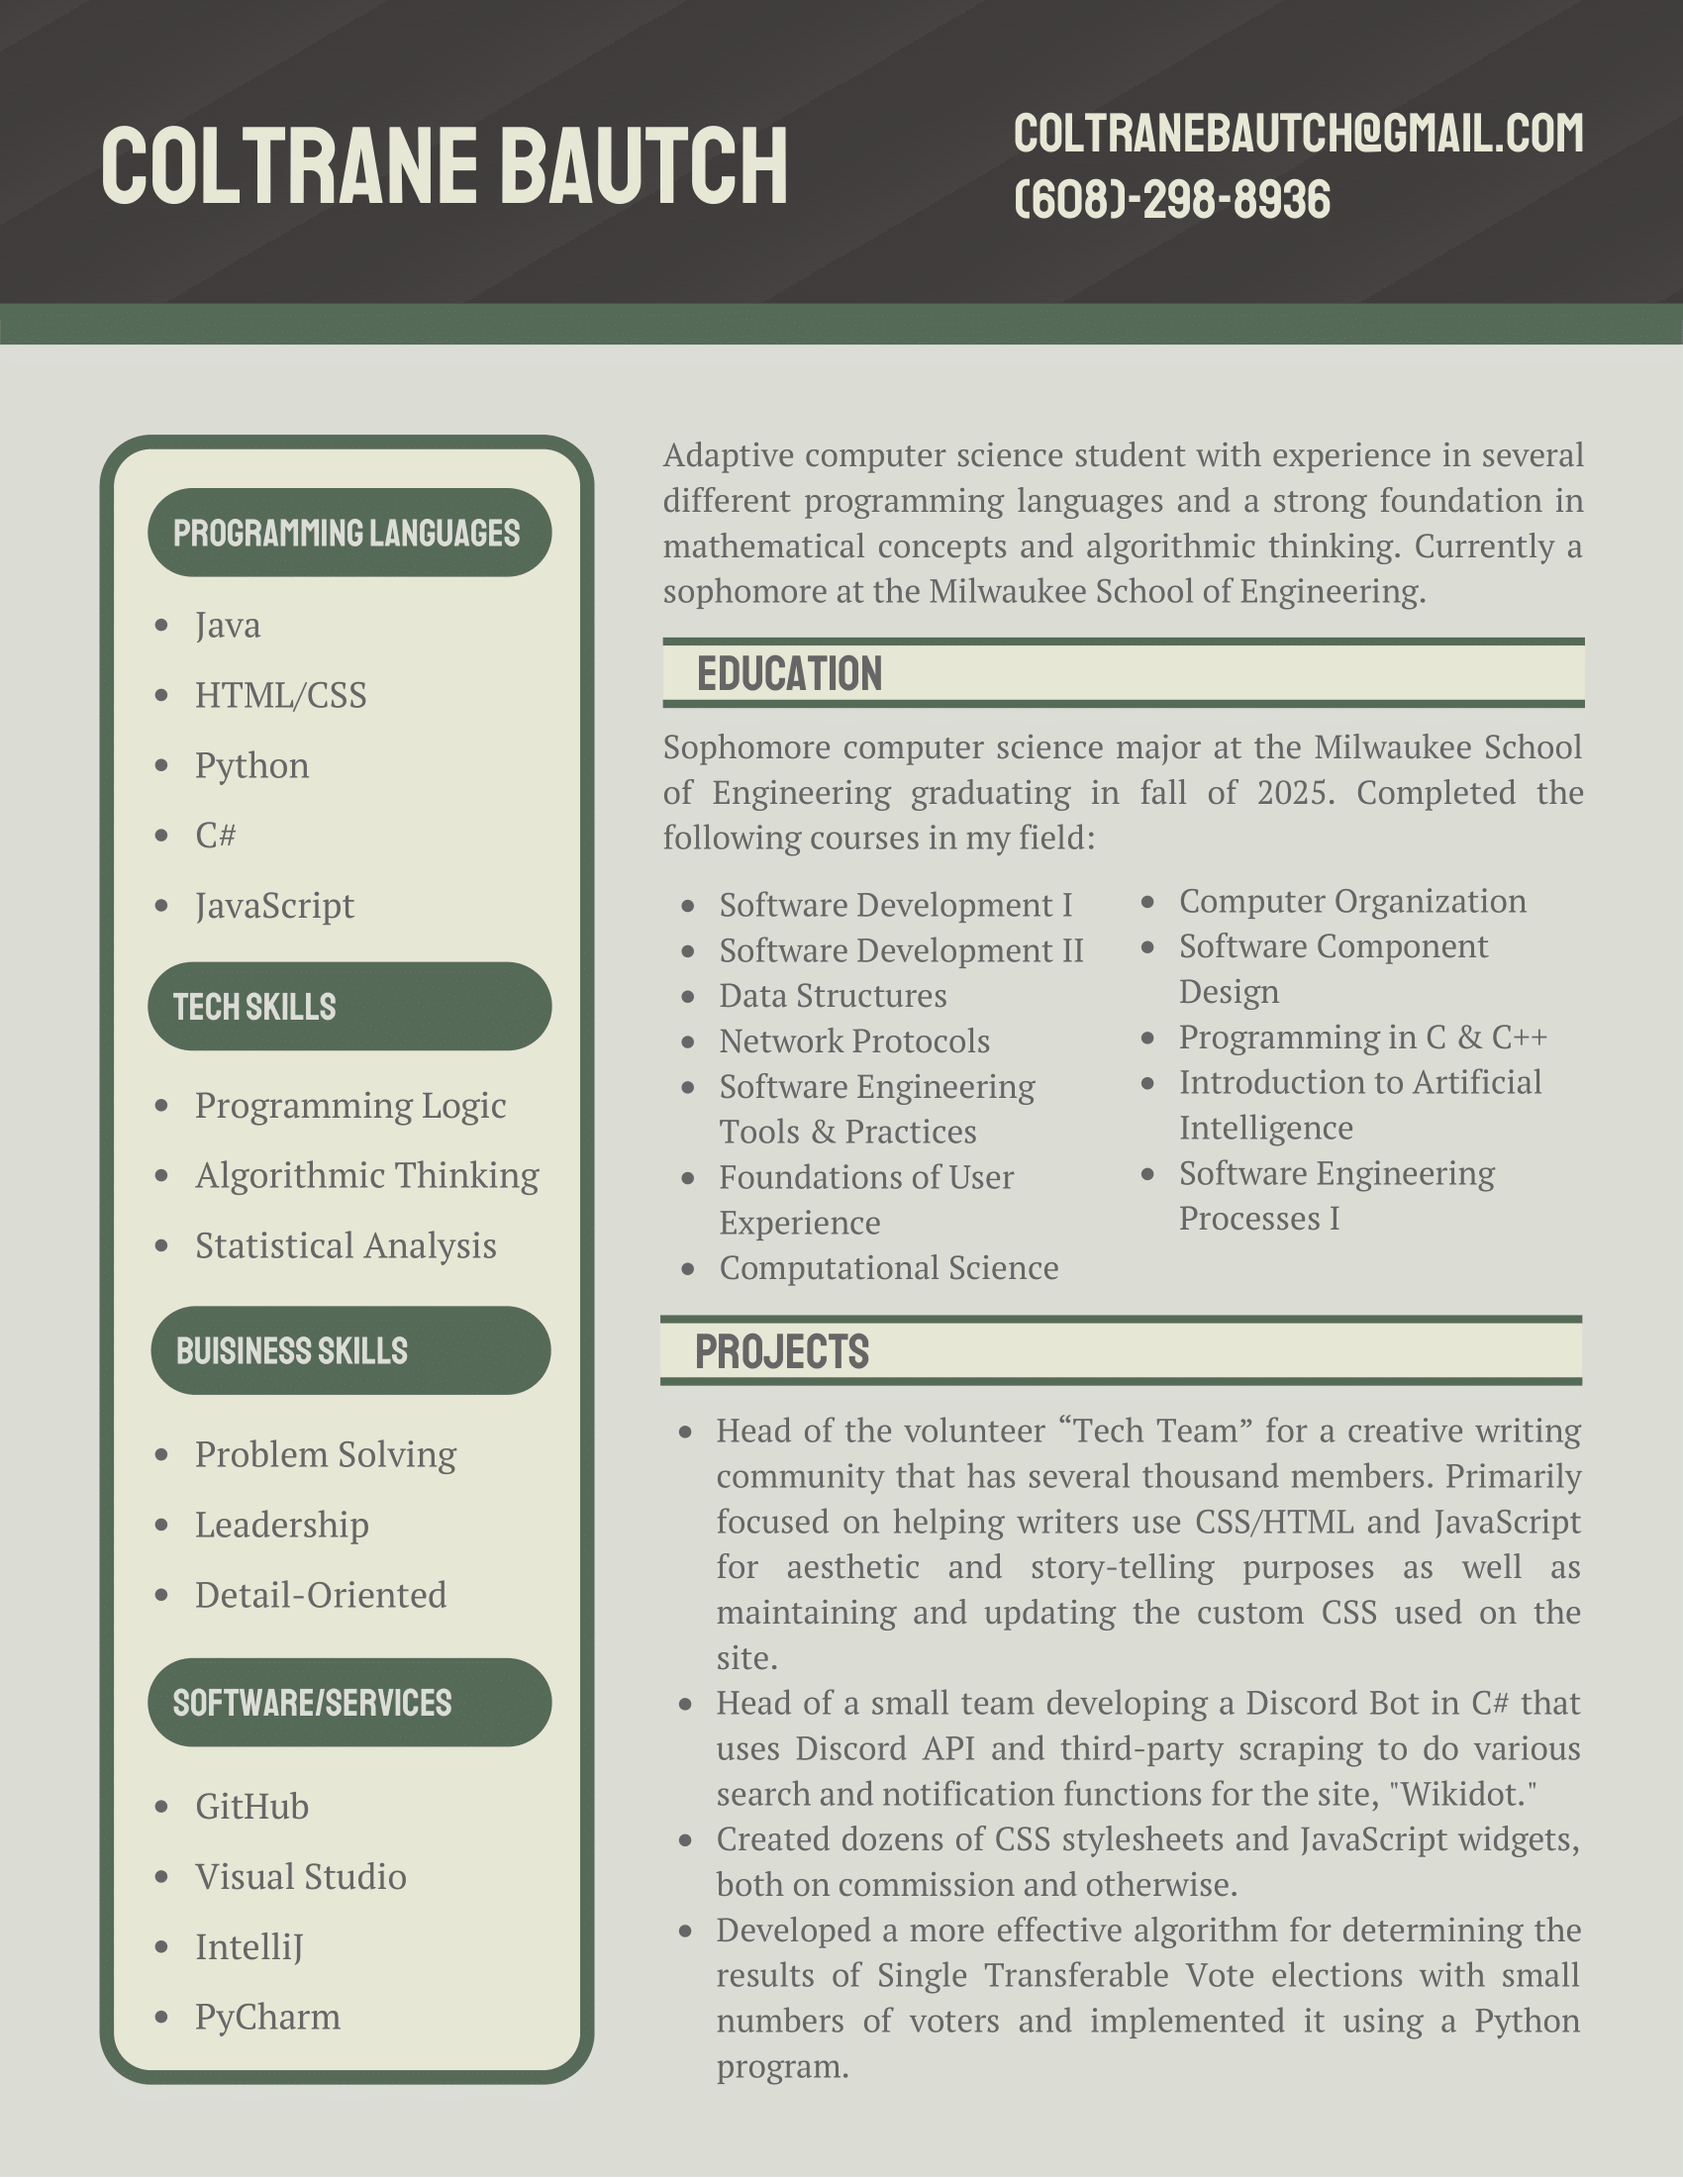
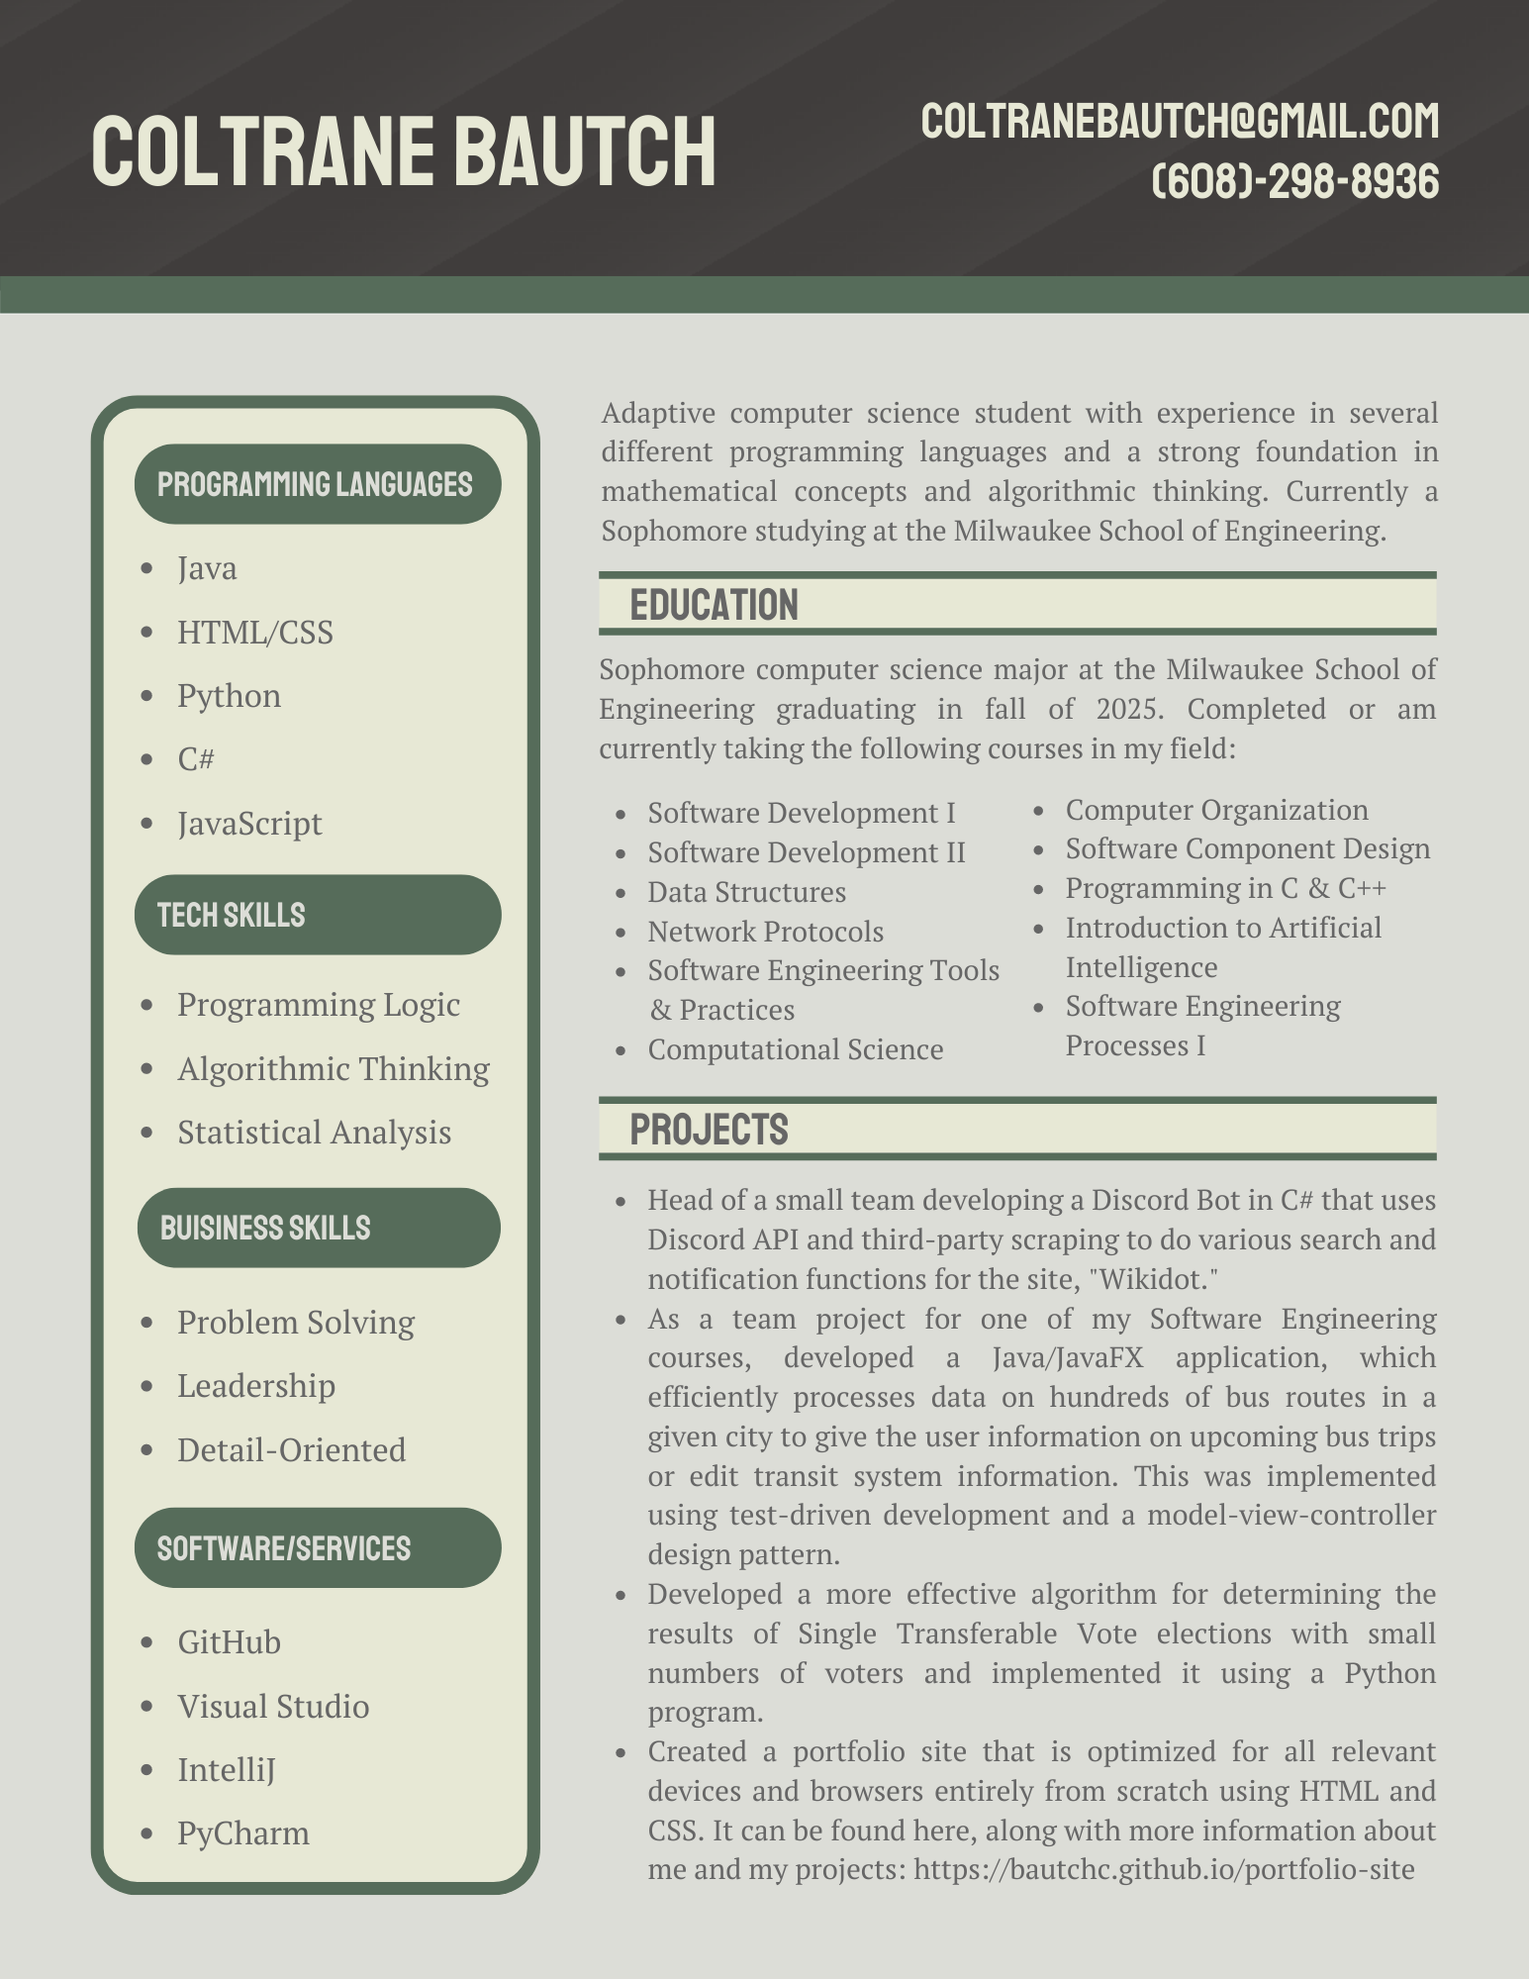
Updated Projects & Resume

diff --git a/index.html b/index.html
@@ -69,9 +69,9 @@
                     <a href="#project-2"></a>
                 </div>
                 <div class="project project-3-blurb">
-                    <img src="images/uxGameLogo.png">
+                    <img src="images/gtfsLogo.png">
                     <p>
-                        “Study.ing” was a project I took on with a small team of three as part of my college user experience class in order to develop and refine the skills necessary for designing future projects.
+                        “GTFSTool” is an application in JavaFX, which allows users to input Google Transit Feed Specification files and generate several view and summaries of the information relating to the bus route system of a given city.
                     </p>
                     <br>
                     <p>
@@ -81,7 +81,7 @@
                 </div>
             </div>
             <div class="project-description project-1-description">
-                <p class="top-paragraph">
+                <p class="top-paragraph centered-paragraph">
                     <b>Summary</b>
                 </p>
                 <p>
@@ -93,7 +93,7 @@
                 <p>
                     Koko was originally created on my own. However, as the scope of the project grew larger, I created a team of two other people to work collaboratively on maintaining and updating the bot with new features.
                 </p>
-                <p>
+                <p class="centered-paragraph">
                     <b>Analysis</b>
                 </p>
                 <p>
@@ -107,13 +107,13 @@
                 </p>
             </div>
             <div class="project-description project-2-description">
-                <p class="top-paragraph">
+                <p class="top-paragraph centered-paragraph">
                     <b>Summary</b>
                 </p>
                 <p>
                     This project was a python program that implemented my own personal algorithm for calculating the results of single transferable vote elections. Single transferable vote elections are an alternative of the widely-used first past the post election design, in which it has voters submit an ordered list of their ideal candidates rather than a single candidate, and a winner is calculated from those lists in a way that doesn’t punish voters for putting a less popular candidate as their first choice. These types of elections work very well when used on a large scale; however, I found that the most widely used algorithms for calculating the results of a single transferable vote election break down when used with a very small number of voters, such as decisions voted on by a small elected council. To fix this problem, I designed a new algorithm for calculating the results of single transferable vote elections and developed a program in Python that implemented this algorithm.
                 </p>
-                <p>
+                <p class="centered-paragraph">
                     <b>Analysis</b>
                 </p>
                 <p>
@@ -124,20 +124,23 @@
                 </p>
             </div>
             <div class="project-description project-3-description">
-                <p class="top-paragraph">
+                <p class="top-paragraph centered-paragraph">
                     <b>Summary</b>
                 </p>
                 <p>
-                    Although not actually implemented, “Study.ing” was a project I took on with a small team of three as part of my college user experience class in order to develop and refine the skills necessary for designing future projects. My team and I developed a conceptual prototype, complete with in-depth charts and notes showing how the user would interact with the program. If implemented, Study.ing would have been a study tool that would allow college students to study for their classes more effectively, with many of the features designed based on the results of a survey we gave to several MSOE students. When designing the project, we took into account the feedback from our target audience, as well as the principles of user experience and design in order to produce the best design we could create.
+                    “GTFSTool” was a 10-week team project I undertook as part of my Software Engineering Tools & Practices class. It entailed creating an application in Java/JavaFX, which allowed users to input CSV files that use the Google Transit Feed Specification that define the information relating to the bus route system of a given city. From the information in these files, the generates an internal map of the relationships between hundreds of bus routes, stops, and individual trips and displays various information about the bus system to the user including a map that displays all stop locations, and routes along with the frequency that a bus will go along any given route. This project was implemented using test-driven-development and acceptance criteria, and it made use of the model-view-controller and observer design patterns with a focus on maintainability and the reduction of technical debt.
                 </p>
-                <p>
+                <p class="centered-paragraph">
                     <b>Analysis</b>
                 </p>
                 <p>
-                    The design aspect of the project was much more intensive than most other projects I’ve worked on, as we spent time interviewing members of our target audience, both before starting the design and after our first draft of the prototype was finished in order to create something that would serve them as best as we could. This was very valuable, as it allowed us to see trends in how different people approached studying and allowed us to take into account many potential aspects of the project that we would not have otherwise considered. Through this, I was able to refine the skills of determining the right questions that need to be asked in an interview, as well as determining how to interpret a broader trend from a series of interviews and judge which aspects of the interview are valuable enough to be incorporated into the design.
+                    This project was one of the largest projects I’ve worked on and was made more complex by the fact that I was working with a team of three of my peers. Even though we were all technically equals, I found myself taking on a managerial role and personally and had to evaluate the strengths and weaknesses of my teammates to determine how the workload of the project specifications could be most effectively split up between the four of us. Through this I learned a lot about how to organize a team of coders of different skill levels in an effective way.
                 </p>
                 <p>
-                    From the data we gathered in our interviews, we carefully tweaked and adjusted minute aspects of our user experience in order to maintain the balance between discipline and retention necessary for a study tool. This careful process taught me a lot about taking into account even the smallest details to create the optimal user experience for my target user, a skill that will serve me well in future projects.
+                    One thing I earned from this project was a new-found appreciation for test-driven-development. What had before seemed like simply a necessary tedium became essential when it came to making sure that all four members of the team were designing their code in a way adhered to the projected specifications and kept the technical debt low. Through this process, we all worked together to develop a suite of tests with nearly 100% coverage, which made code review and bug fixing much easier.
+                </p>
+                <p>
+                    Our project was based on displaying complexly related data to the user in multiple views in a graphical user interface with framework that allowed the user to make changes to the data in the system, so when we were creating our initial design, it was clear that model-view-controller and observer design patterns would be the best design patterns for making the project as easy as possible for four people to work on it simultaneously.
                 </p>
             </div>
             <div class="projects-bottom"></div>
